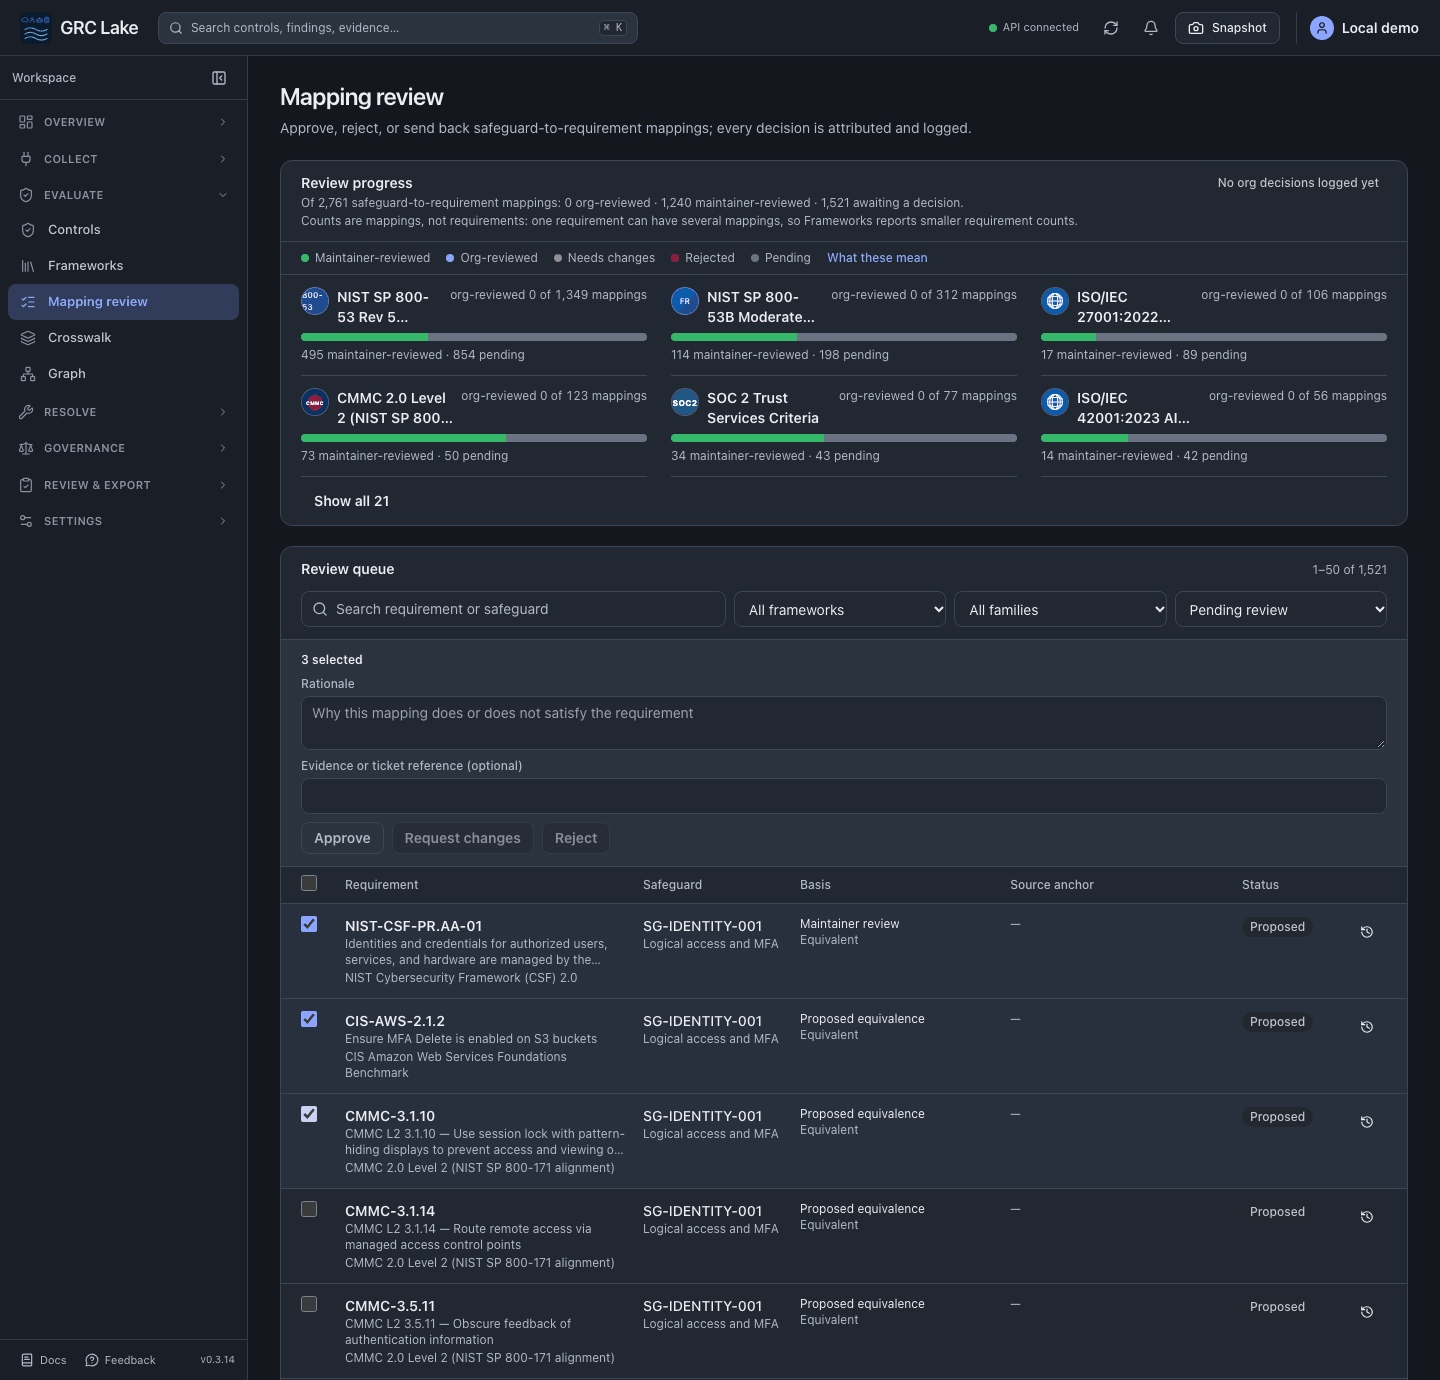
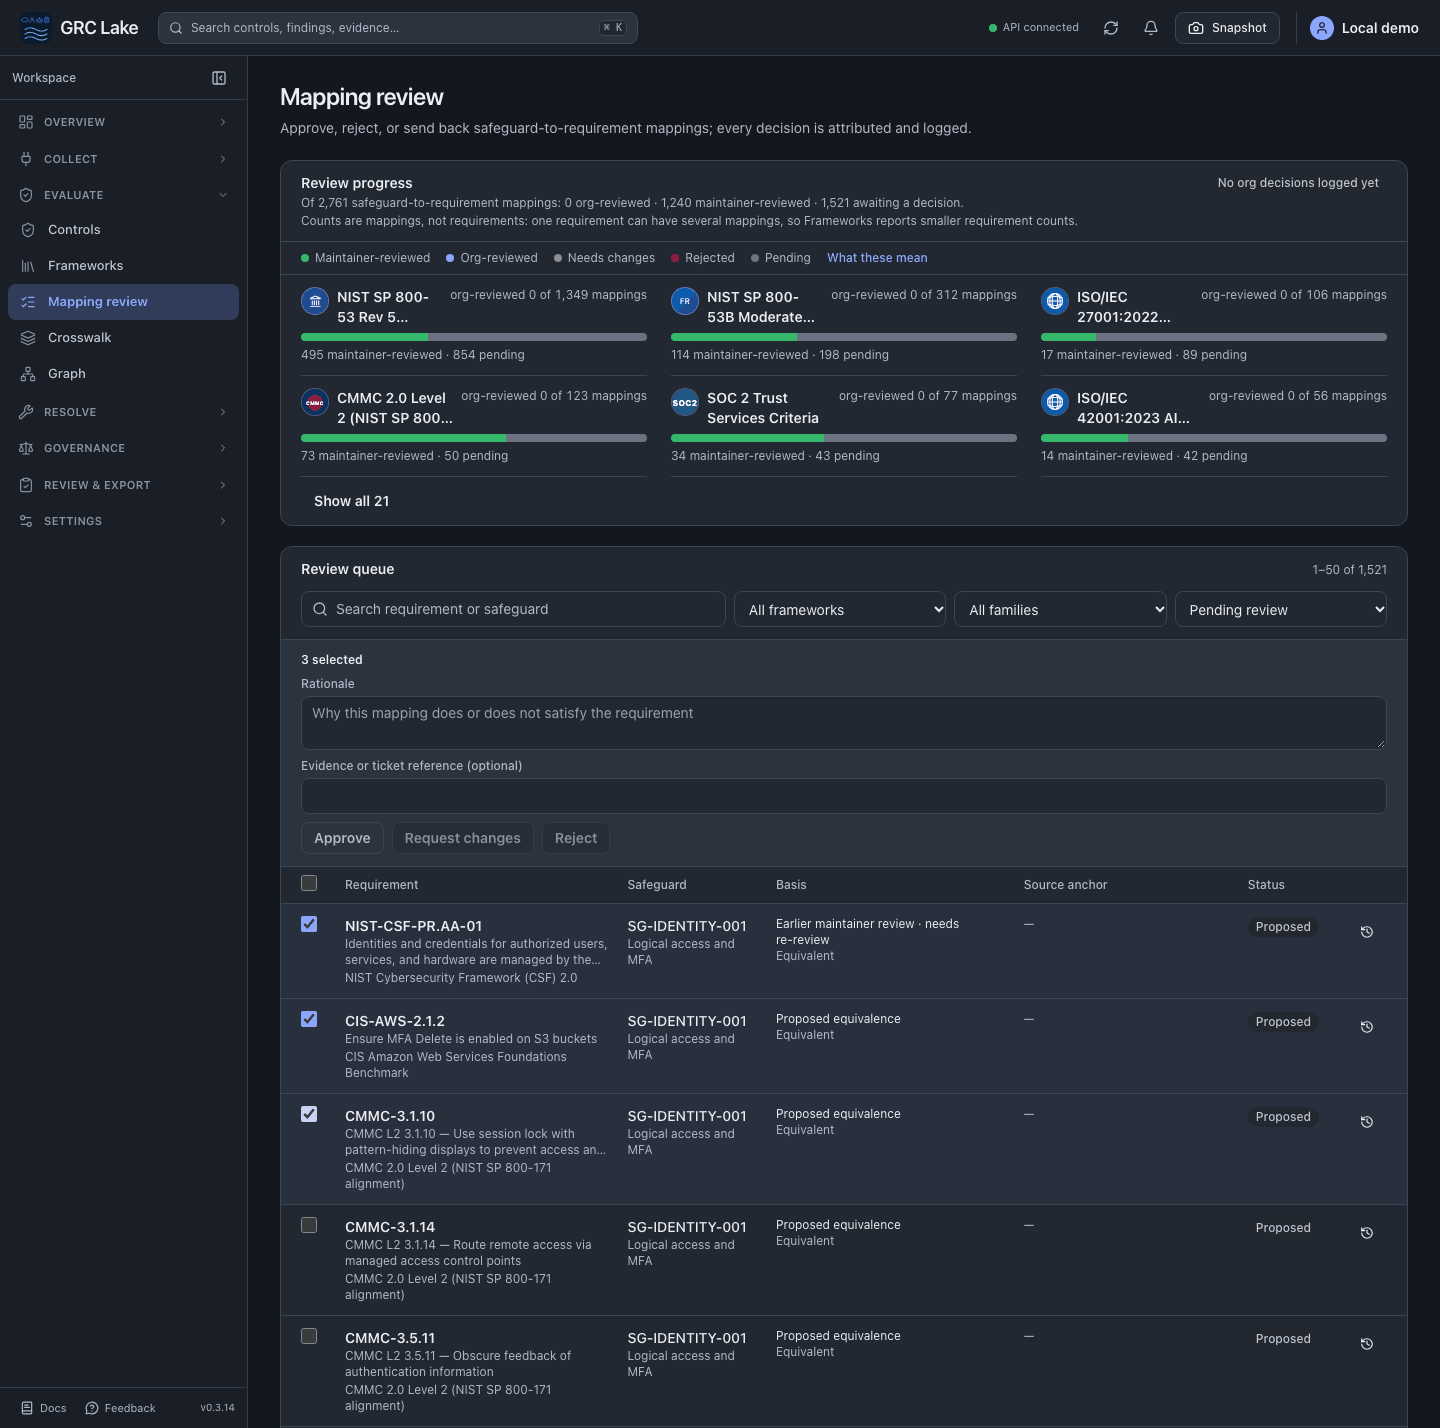
fix(console): label out-of-date maintainer reviews and keep framework marks on one line (#1052)
* fix(console): label out-of-date maintainer reviews and keep framework marks on one line

* docs: retake mapping review screenshots with the corrected review label

diff --git a/app/web/e2e/mapping-review.spec.ts b/app/web/e2e/mapping-review.spec.ts
@@ -309,3 +309,63 @@ test("background queue refresh cannot replace the selected review basis", async 
     "1".repeat(64),
   );
 });
+
+test("an out-of-date maintainer review is not labeled as a current review", async ({
+  page,
+  request,
+}) => {
+  const body = (await (
+    await request.get("/api/v1/mapping-reviews/queue?limit=200")
+  ).json()) as {
+    data: Array<{
+      control_id: string;
+      shipped_review_status: string;
+      review_state: string;
+      mapping_source?: string | null;
+      mapping_basis?: string | null;
+    }>;
+  };
+  const stale = body.data.find(
+    (row) =>
+      row.shipped_review_status === "reviewed" &&
+      row.review_state === "proposed" &&
+      !row.mapping_source &&
+      !row.mapping_basis,
+  )!;
+  const table = await openQueue(page);
+  await page
+    .getByPlaceholder("Search requirement or safeguard")
+    .fill(stale.control_id);
+  const row = table
+    .getByRole("row")
+    .filter({ hasText: stale.control_id })
+    .first();
+  await expect(row).toContainText("Earlier maintainer review");
+  await expect(row).not.toContainText(/Maintainer review(?! )/);
+});
+
+test("framework marks fit their badge on one line", async ({ page }) => {
+  await openQueue(page);
+  const marks = page.locator('[role="img"][aria-label$=" framework"]');
+  await expect(marks.first()).toBeVisible();
+  const broken = await marks.evaluateAll((elements) =>
+    elements
+      .filter((el) => {
+        const walker = document.createTreeWalker(el, NodeFilter.SHOW_TEXT);
+        const lines = new Set<number>();
+        for (let node = walker.nextNode(); node; node = walker.nextNode()) {
+          const range = document.createRange();
+          range.selectNodeContents(node);
+          for (const rect of range.getClientRects())
+            lines.add(Math.round(rect.top));
+        }
+        return (
+          lines.size > 1 ||
+          el.scrollWidth > el.clientWidth + 1 ||
+          el.scrollHeight > el.clientHeight + 1
+        );
+      })
+      .map((el) => el.getAttribute("aria-label")),
+  );
+  expect(broken).toEqual([]);
+});

diff --git a/app/web/src/app/mapping-review/page.tsx b/app/web/src/app/mapping-review/page.tsx
@@ -121,7 +121,10 @@ function mappingKey(item: { safeguard_id: string; control_id: string }) {
 function basisLabel(item: MappingReviewItem): string {
   if (item.mapping_basis === "title_theme") return "Title theme";
   if (item.mapping_source) return "Published crosswalk";
-  if (item.shipped_review_status === "reviewed") return "Maintainer review";
+  if (item.shipped_review_status === "reviewed")
+    return item.review_state === "proposed"
+      ? "Earlier maintainer review · needs re\u2011review"
+      : "Maintainer review";
   return "Proposed equivalence";
 }
 

diff --git a/app/web/src/components/framework/FrameworkMark.tsx b/app/web/src/components/framework/FrameworkMark.tsx
@@ -71,7 +71,7 @@ export function FrameworkMark({
         />
       ) : (
         <span className="grid place-items-center" aria-hidden="true">
-          {size >= 36 ? (
+          {size >= 36 || visual.mark.length > 4 ? (
             <Icon style={{ width: size * 0.46, height: size * 0.46 }} />
           ) : (
             <span style={{ fontSize: Math.max(8, size * 0.27) }}>

diff --git a/CHANGELOG.md b/CHANGELOG.md
@@ -14,6 +14,9 @@ Python package, Helm chart, and bundled web console.
 - Let mapping-review packets select exact pending requirements with repeatable `--control` flags. Preserve candidate fingerprints and coverage denominators; reject missing or already-reviewed selections before writing output. Add focused recovery/confidentiality review guidance without approving either mapping, align the pip and Compose tutorial versions, and document an optional pilot-feedback and stability period.
 
 - Report an OSCAL assessment-results finding as `satisfied` only when the control test passes and the requirement's framework (CCF) result is `pass` through reviewed mappings. A passing control test with only proposed mappings, or no CCF result, is now `not-satisfied` (reason `other`); each finding adds a `trustops-ccf-status` prop. Previously the golden demo exported 8 SOC 2 objectives as satisfied while every CCF requirement was not evaluated.
+
+- Label a mapping whose maintainer review no longer applies (the requirement version changed or an inherited review is invalid) as "Earlier maintainer review · needs re-review" in Mapping review instead of "Maintainer review", since it counts as proposed. Framework badges whose short mark is longer than four characters, such as NIST SP 800-53, show the framework icon at small sizes instead of wrapping the mark onto two lines.
+
 - Reject incomplete Databricks SQL results before replacing evidence or advancing watermarks. Validate result schemas, row counts and chunk offsets, follow index-only chunk cursors, and record failed reads as partial runs with a collection gap. Malformed chunk links are rejected before requesting them. The adapter remains Preview; the added qualification uses synthetic responses.
 
 ## 0.3.13 - 2026-10-25
